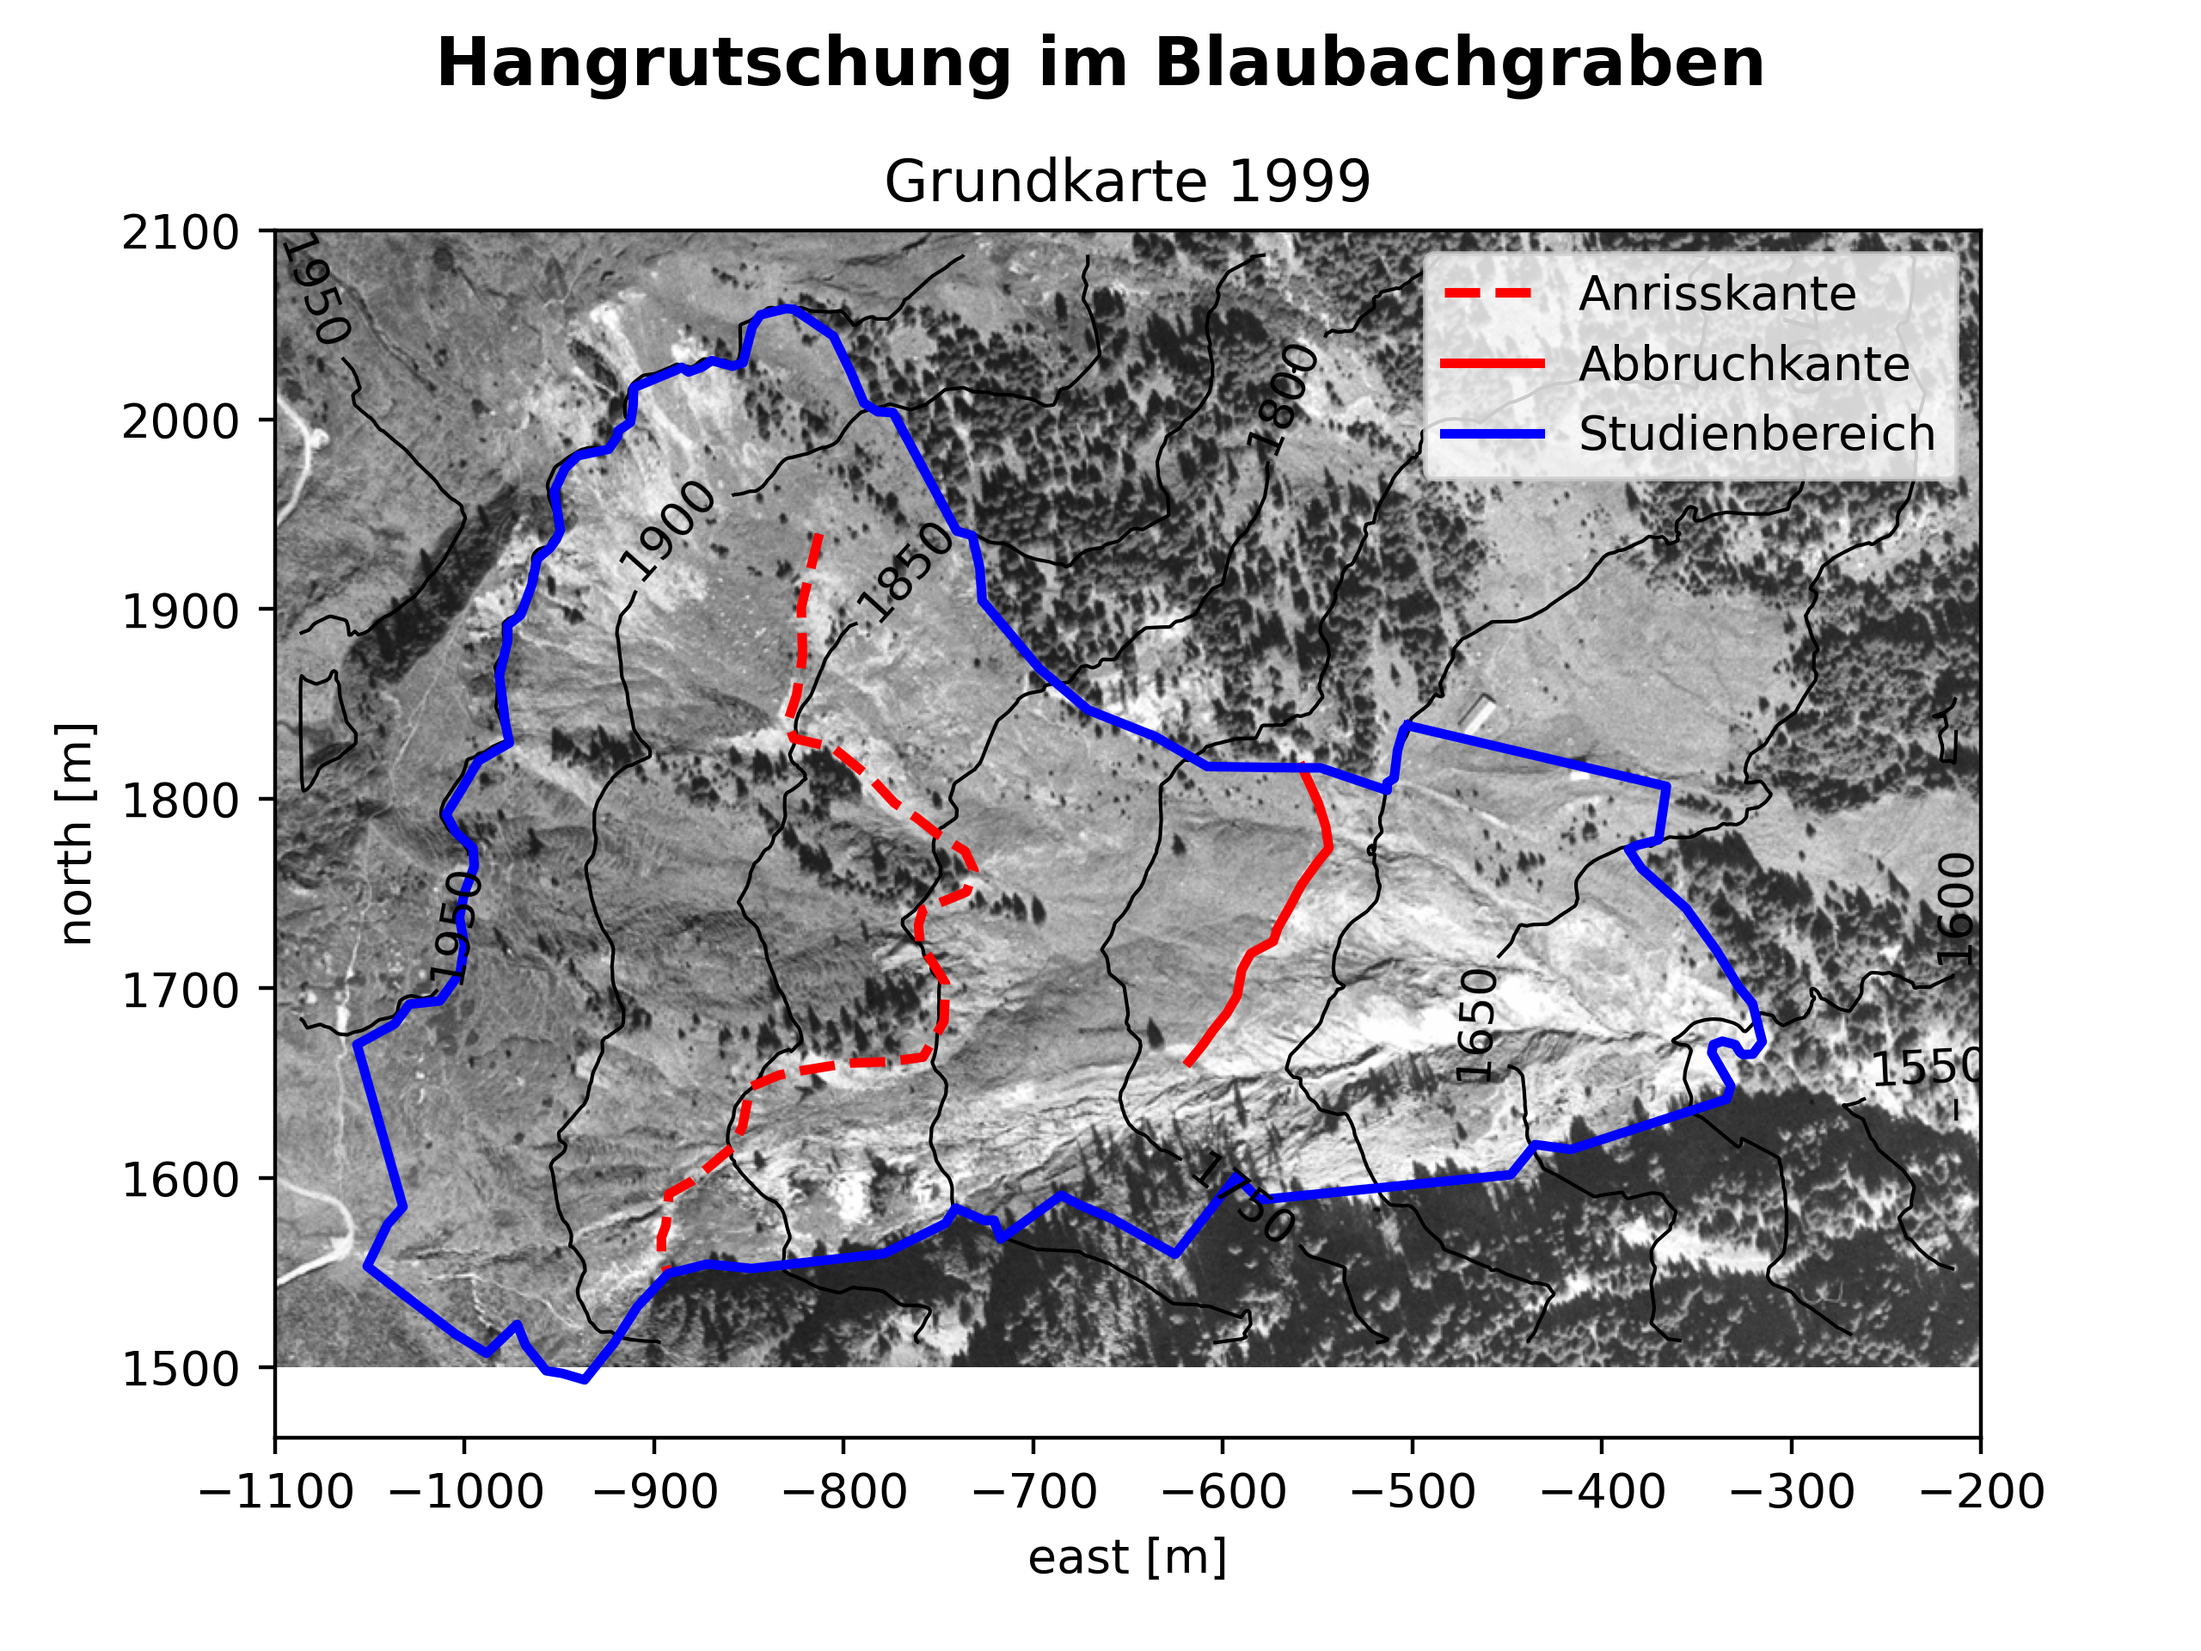
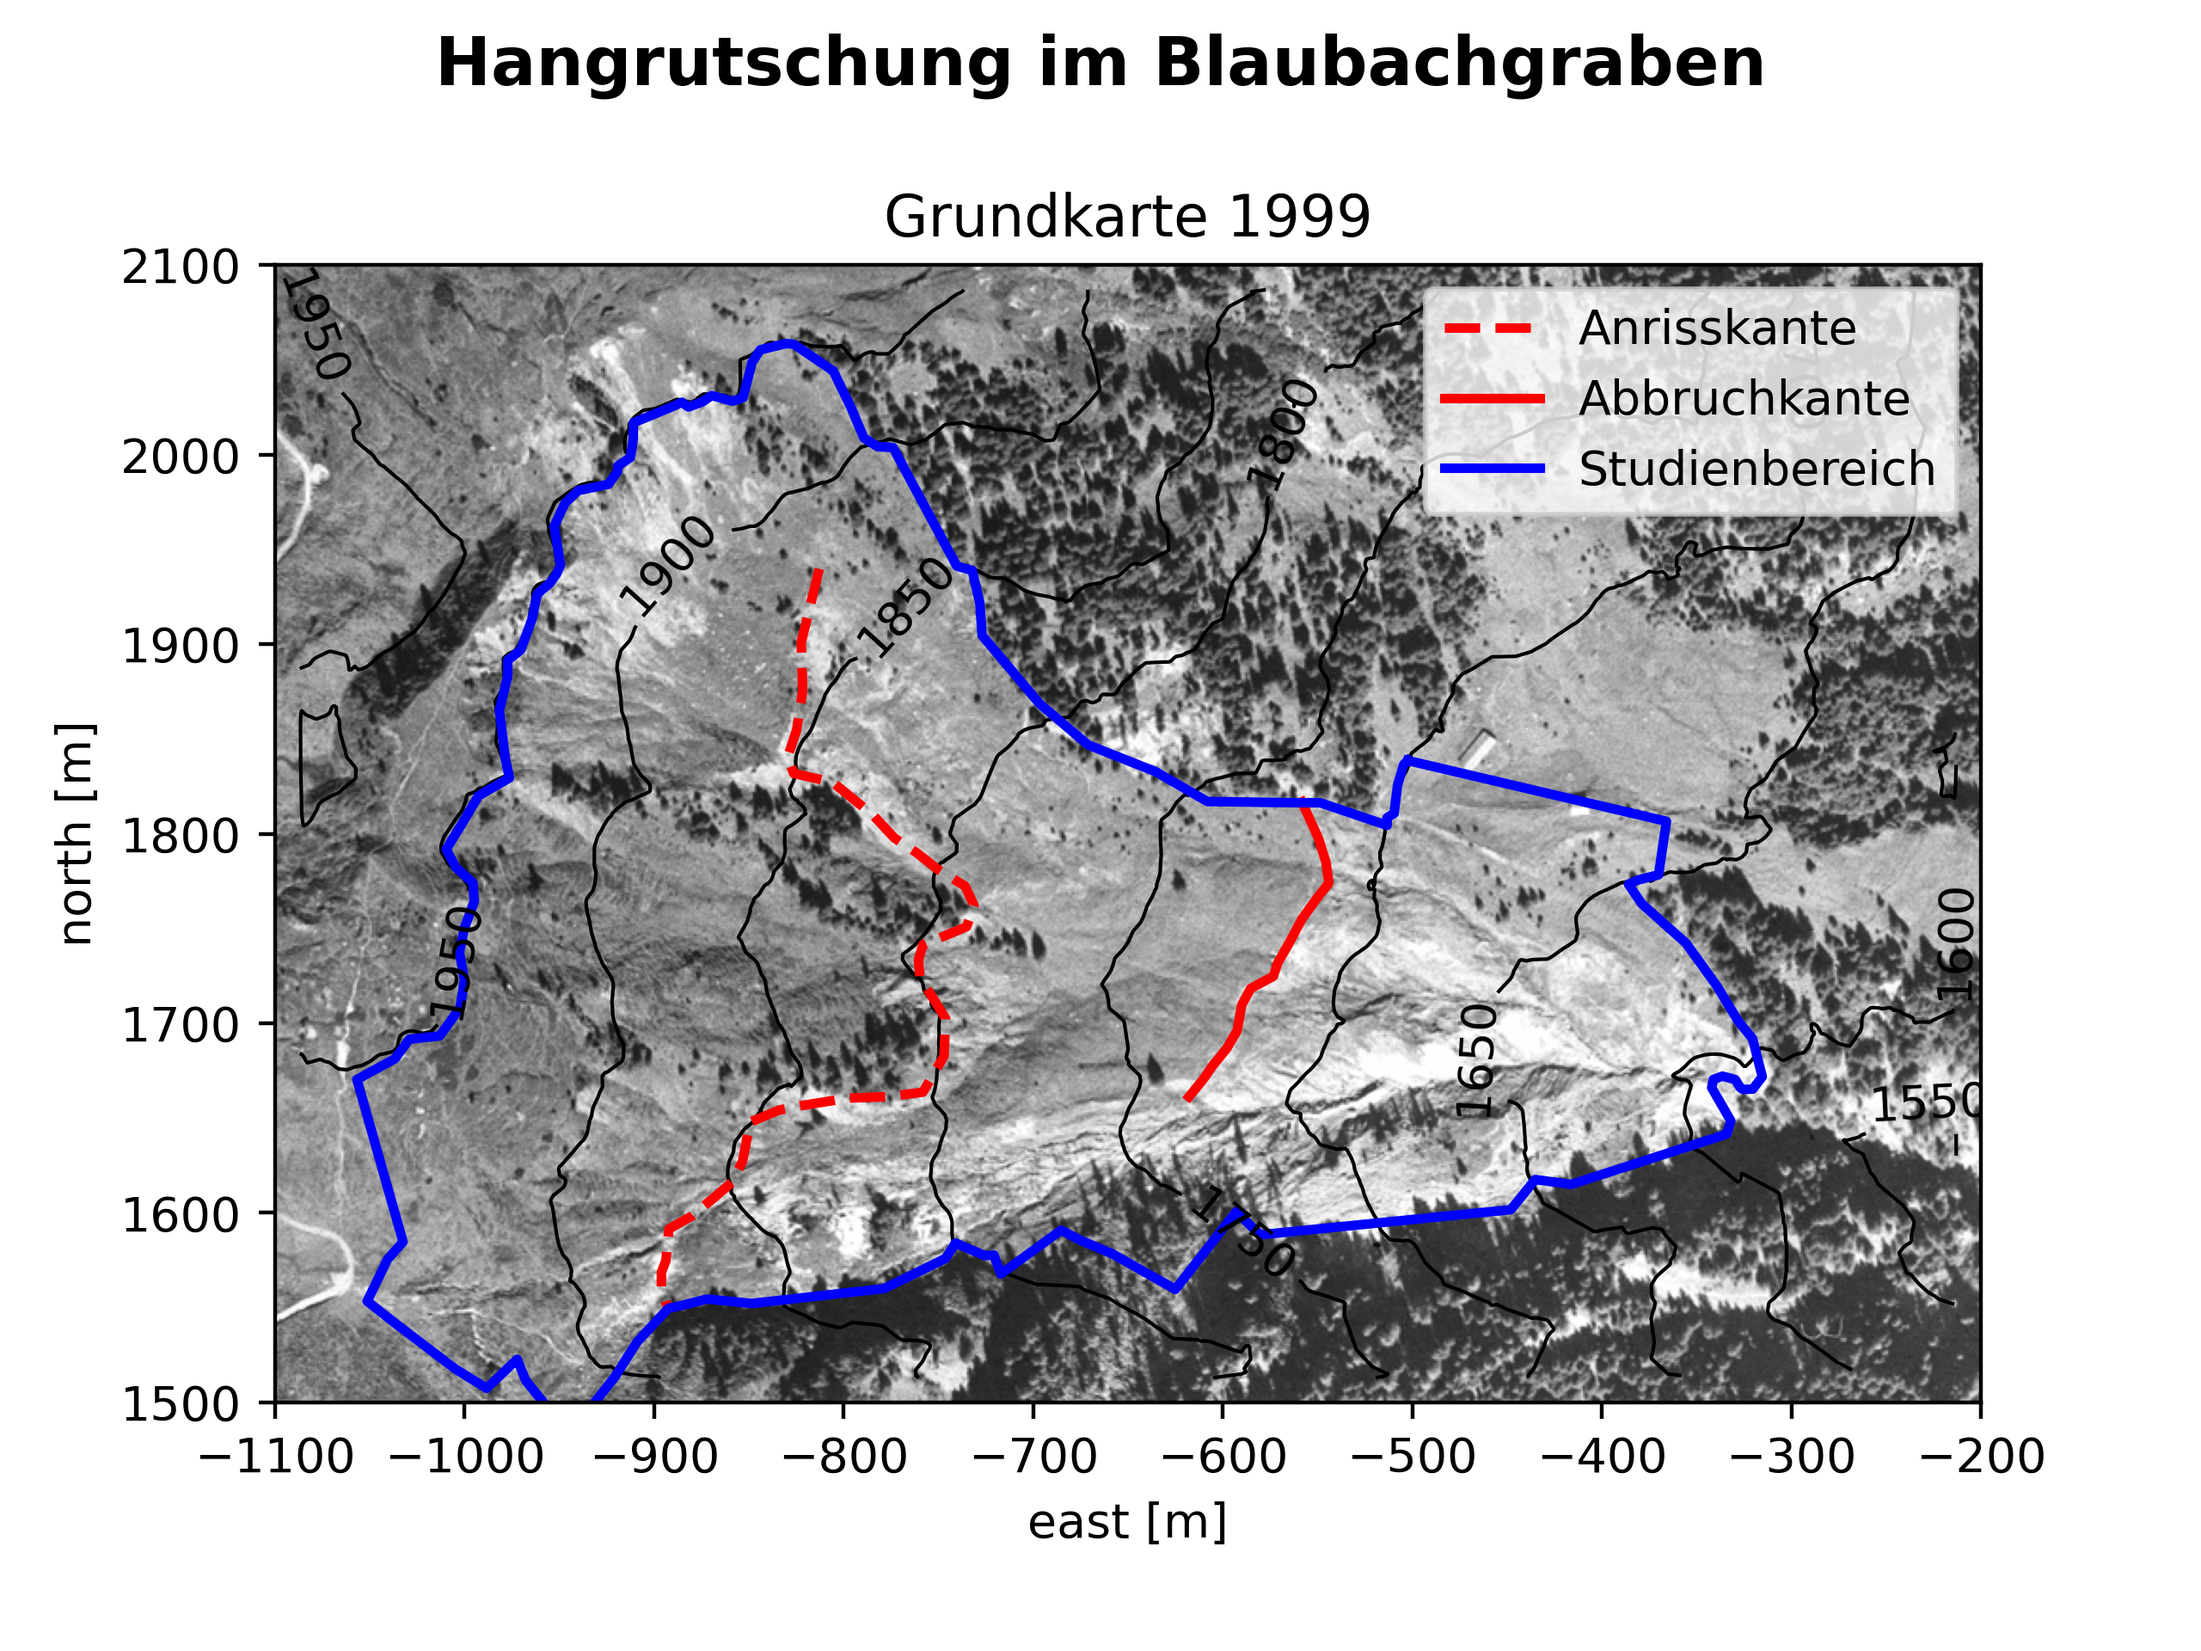
...

diff --git a/Informatik I/UE_Uebungsprogramm_WS2022/main.py b/Informatik I/UE_Uebungsprogramm_WS2022/main.py
@@ -81,6 +81,7 @@ ortho_img_2004 = read_img("O2004_2385c_A3_1m.tif")
 
 surface_1953 = read_surface_data("kr_53_A3_o25.dat")
 surface_1999 = read_surface_data("kr_99_A3_o25.dat")
+surface_2004 = read_surface_data("kr_9904_all.dat")
 
 polyline_tear_edge = read_polyline("Anrisskante.bln")
 polygon_tearoff_edge = read_polyline("Abbruchkante.bln")
@@ -105,21 +106,26 @@ grid_x, grid_y = np.meshgrid(
 grid_xy = np.vstack((grid_x.flatten(), grid_y.flatten())).T
 
 # We can then interpolate the height values of each grid point using the surface data.
-def interpolate_surface(surface: DataFrame) -> np.ndarray:
+def interpolate_surface(surface: DataFrame, x_column, y_column, z_column) -> np.ndarray:
     return interpolate.griddata(
-        points=(surface["X[m]"], surface["Y[m]"]),
-        values=surface["Z[m]"],
+        points=(surface[x_column], surface[y_column]),
+        values=surface[z_column],
         xi=(grid_x, grid_y),
         method="linear",
     )
 
 
-grid_z_1953 = interpolate_surface(surface_1953)
-grid_z_1999 = interpolate_surface(surface_1999)
+grid_z_1953 = interpolate_surface(surface_1953, "X[m]", "Y[m]", "Z[m]")
+grid_z_1999 = interpolate_surface(surface_1999, "X[m]", "Y[m]", "Z[m]")
 
 # Calculate the height difference between the measurements in 1953 and 1999.
 # This will be used for visualization later.
-grid_z_diff = grid_z_1953 - grid_z_1999
+grid_z_diff_1999 = grid_z_1953 - grid_z_1999
+
+
+# The difference between 1999 and 2004 can be read directly from the surface data
+# of 2004.
+grid_z_diff_2004 = interpolate_surface(surface_2004, "X1[m]", "Y1[m]", "dZ[m]")
 
 
 """
@@ -133,31 +139,31 @@ Surface Grid Visualization
 # First, we will plot contour lines in all the images.
 # For this, the height values need to be clipped and binned into a reasonable range.
 # Most of the height values are between 1500 and 2100 meters, so we will use this range and bin the values into 50 meter steps.
-z_min, z_max, z_steps = 1500, 2100, 50
+z_min, z_max, z_step = 1500, 2100, 50
 
 # Secondly, we will plot the height difference per pixel using a color map.
 # Since we have difference values for every pixel of the ortho images (except some border pixels with undefined height),
 # and we only want to show the data inside the region of interest, we need to create a mask for the data.
 
 # This creates a closed path from the polyline data, which we can use to determine if a point is inside the region of interest.
-# We then create a 2d array, which maps each pixel to a boolean value indicating if it is inside the region of interest.
+# We then create a 2d mask array, which maps each pixel to a boolean value indicating if it is outside the region of interest.
 region_path = Path(polyline_region[["X[m]", "Y[m]"]].values)
-is_in_region = region_path.contains_points(grid_xy).reshape(grid_x.shape)
+region_mask = np.logical_not(region_path.contains_points(grid_xy).reshape(grid_x.shape))
 
 # And apply this as a mask to the height difference data.
-# Since the mask function throws out values where the mask is true, we need to invert it first.
-grid_z_diff = np.ma.masked_array(
-    grid_z_diff,
-    mask=np.logical_not(is_in_region),
+grid_z_diff_1999 = np.ma.masked_array(
+    grid_z_diff_1999,
+    mask=region_mask,
+)
+grid_z_diff_2004 = np.ma.masked_array(
+    grid_z_diff_2004,
+    mask=region_mask,
 )
 
 # The height difference will be visualized via a custom color map.
 # We want to show a range of -5 to 17 meters, and fade out the colorization between +- 0.5 meters,
 # because no significant change happened in this area.
-dz_min, dz_max, dz_steps = -5, 17, 1
-
-
-def create_diff_colormap():
+def create_diff_colormap(dz_min, dz_max):
     # Use different base colormaps for positive and negative values
     top = cm.get_cmap("autumn_r")
     bottom = cm.get_cmap("summer")
@@ -178,10 +184,11 @@ def create_diff_colormap():
         # Between +- 0.5 and 2 meters, we slowly fade in the color to avoid hard transitions.
         colors[i, -1] = np.interp(abs(dz), [0.5, 2], [0, 1])
 
-    return ListedColormap(colors)
+    cmap = ListedColormap(colors)
+    cmap.set_over(top(255))
+    cmap.set_under(bottom(0))
+    return cmap
 
-
-cmap_diff = create_diff_colormap()
 
 """
 
@@ -195,8 +202,11 @@ def plot_basemap(title: str, ortho_image: np.ndarray, output_file: str):
 
     fig.suptitle("Hangrutschung im Blaubachgraben", fontsize=14, fontweight="bold")
     ax.set_title(title)
+
+    ax.set_xlim(x_min, x_max)
     ax.set_xlabel("east [m]")
-    ax.set_ylabel("north [m]")
+
+    ax.set_ylim(y_min, y_max)
     ax.set_ylabel("north [m]")
 
     ax.imshow(ortho_image, extent=[x_min, x_max, y_min, y_max], cmap="gray")
@@ -205,7 +215,7 @@ def plot_basemap(title: str, ortho_image: np.ndarray, output_file: str):
         grid_x,
         grid_y,
         grid_z_1999,
-        levels=np.arange(z_min, z_max, z_steps),
+        levels=np.arange(z_min, z_max, z_step),
         colors="black",
         linewidths=0.75,
     )
@@ -241,36 +251,6 @@ def plot_basemap(title: str, ortho_image: np.ndarray, output_file: str):
 
     ax.legend(loc="upper right")
 
-    # Save to output file
-    fig.savefig(result_file(output_file), dpi=400)
-
-    return fig, ax
-
-
-"""
-
-Thematic Map Generation
-
-"""
-
-
-def plot_thematic_map(title: str, basemap: Tuple[Figure, Axes], output_file: str):
-    fig, ax = basemap
-
-    ax.set_title(title)
-
-    diff_colors = ax.contourf(
-        grid_x,
-        grid_y,
-        grid_z_diff,
-        levels=np.arange(dz_min, dz_max, dz_steps),
-        cmap=cmap_diff,
-    )
-
-    diff_colors_bar = fig.colorbar(diff_colors)
-    diff_colors_bar.ax.set_title("$\Delta$H [m]")
-
-    # Save to output file
     fig.savefig(result_file(output_file), dpi=400)
 
     return fig, ax
@@ -281,19 +261,76 @@ basemap_1953 = plot_basemap(
     ortho_image=ortho_img_1953,
     output_file="Grundkarte_1953.png",
 )
-# basemap_1999 = plot_basemap(
-#     title="Grundkarte 1999",
-#     ortho_image=ortho_img_1999,
-#     output_file="Grundkarte_1999.png",
-# )
-# basemap_2004 = plot_basemap(
-#     title="Grundkarte 2004",
-#     ortho_image=ortho_img_2004,
-#     output_file="Grundkarte_2004.png",
-# )
+basemap_1999 = plot_basemap(
+    title="Grundkarte 1999",
+    ortho_image=ortho_img_1999,
+    output_file="Grundkarte_1999.png",
+)
+basemap_2004 = plot_basemap(
+    title="Grundkarte 2004",
+    ortho_image=ortho_img_2004,
+    output_file="Grundkarte_2004.png",
+)
 
-plot_thematic_map(
-    title="Differenz der Geländehöhen 1953 - 1999",
+"""
+
+Thematic Map Generation
+
+"""
+
+
+def plot_diffmap(
+    title: str,
+    basemap: Tuple[Figure, Axes],
+    output_file: str,
+    grid_z: np.ndarray,
+    dz_range: Tuple[float, float],
+    extend="neither",
+):
+    dz_min, dz_max = dz_range
+
+    fig, ax = basemap
+    ax.set_title(title)
+
+    diff_colors = ax.contourf(
+        grid_x,
+        grid_y,
+        grid_z,
+        levels=np.arange(dz_min, dz_max, 1),
+        cmap=create_diff_colormap(dz_min, dz_max),
+        extend=extend,
+    )
+
+    cax = fig.add_axes(
+        [
+            ax.get_position().x1 + 0.01,
+            ax.get_position().y0,
+            0.02,
+            ax.get_position().height,
+        ]
+    )
+    diff_colors_bar = fig.colorbar(diff_colors, cax=cax)
+
+    diff_colors_bar.ax.set_title("$\Delta$H [m]")
+
+    fig.savefig(result_file(output_file), dpi=400)
+
+    return fig, ax
+
+
+plot_diffmap(
+    title="Differenz der Geländeoberflächen\n1953 - 1999",
     basemap=basemap_1953,
+    grid_z=grid_z_diff_1999,
+    dz_range=(-5, 17),
     output_file="Differenz_1953_1999.png",
+)
+
+plot_diffmap(
+    title="Höhenänderung der Geländeoberflächen\n1999 - 2004",
+    basemap=basemap_1999,
+    grid_z=grid_z_diff_2004,
+    dz_range=(-6, 6),
+    extend="both",
+    output_file="Differenz_1999_2004.png",
 )
